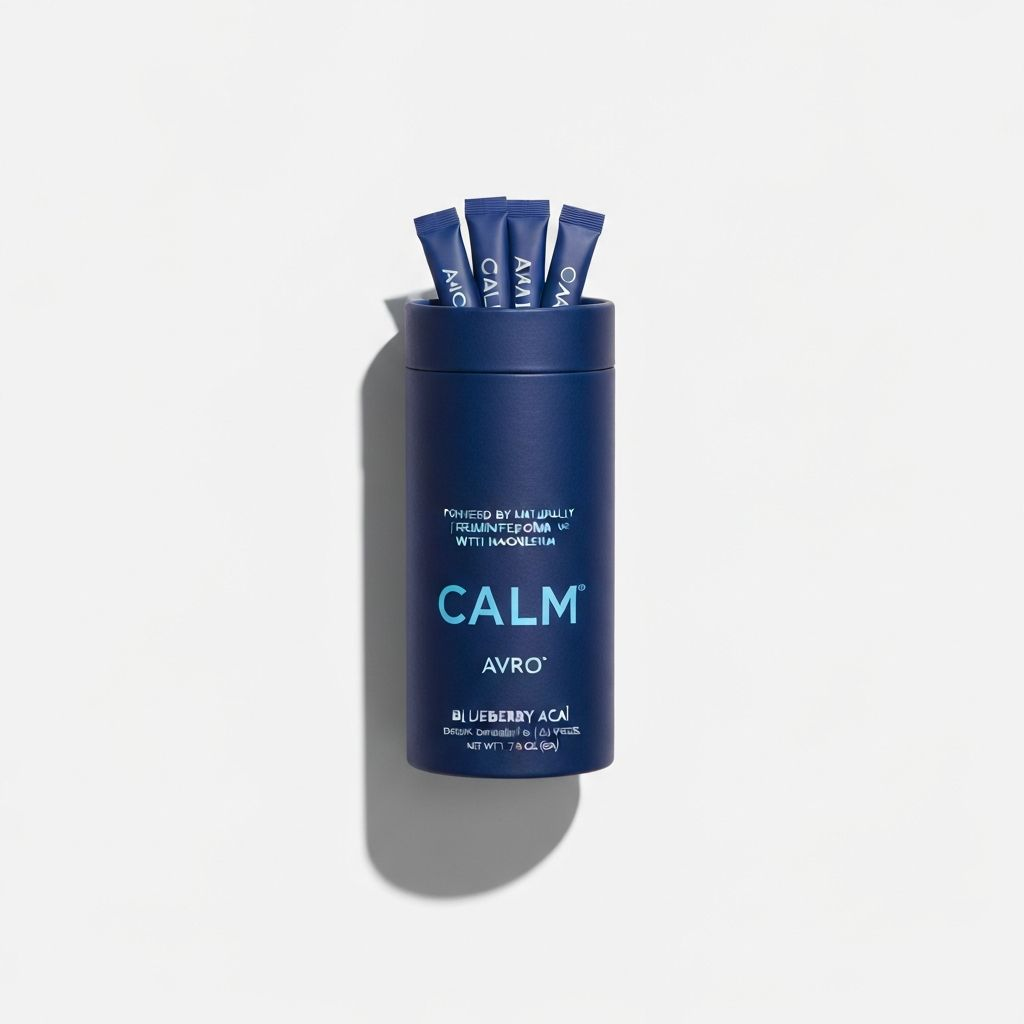
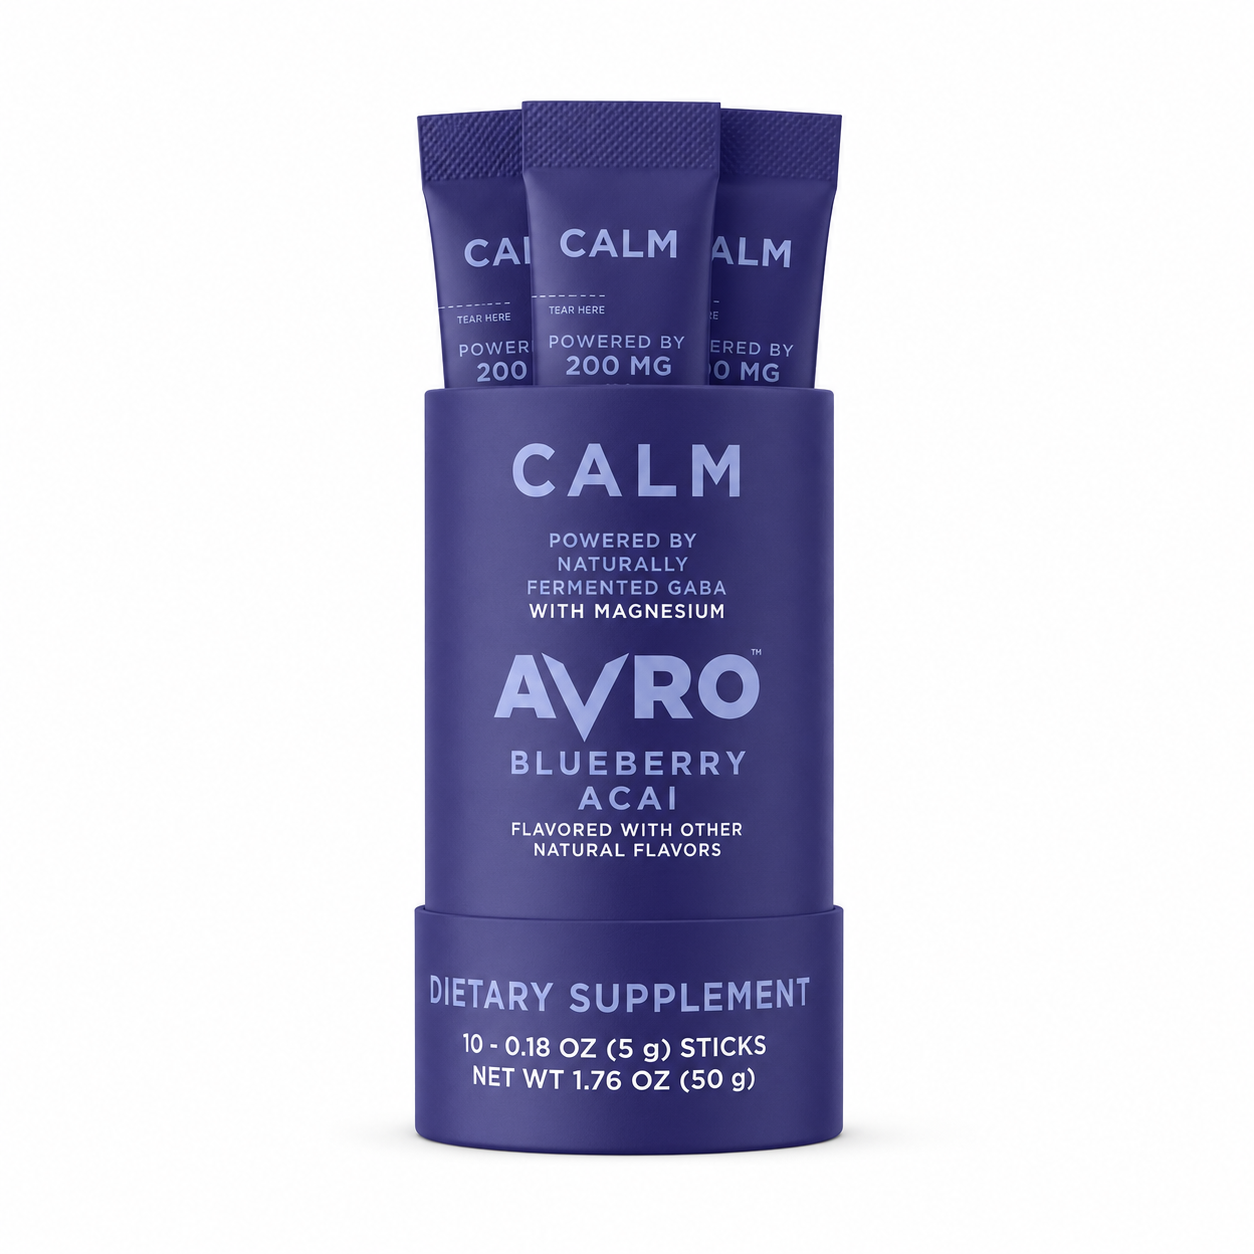
feat: use solo tube images in gallery instead of cropped studio shot\n\nAdd 'soloTubeImageFor' helper and update PDP gallery view.

Changed region(s): [[0.3125, 0.0625, 0.6875, 0.9375]]

diff --git a/components/product-gallery.tsx b/components/product-gallery.tsx
@@ -4,6 +4,7 @@ import { useState } from "react"
 import {
   tubeImageFor,
   stickImageFor,
+  soloTubeImageFor,
   TUBE_SCENE_LABELS,
   type TubeScene,
 } from "@/components/product-visual"
@@ -48,6 +49,7 @@ export function ProductGallery({ formula, formulaKey }: ProductGalleryProps) {
   const [activeId, setActiveId] = useState<ThumbKind>("studio")
 
   const studio = tubeImageFor("studio", formulaKey, flavorId)
+  const soloTube = soloTubeImageFor(formulaKey, flavorId)
   const stick = stickImageFor(formulaKey, flavorId)
   const activeFlavorName =
     formula.flavors.find((f) => f.id === flavorId)?.name ?? formula.flavor
@@ -72,15 +74,14 @@ export function ProductGallery({ formula, formulaKey }: ProductGalleryProps) {
     }
 
     if (activeId === "tube") {
-      // Solo display tube — same studio packshot, cropped to canister side.
+      // Solo display tube — the canister by itself, on white.
       return (
-        <div className="relative w-full h-full bg-white overflow-hidden">
+        <div className="relative flex items-center justify-center w-full h-full bg-white overflow-hidden">
           {/* eslint-disable-next-line @next/next/no-img-element */}
           <img
-            src={studio.src}
-            alt={`AVRO ${formula.short} ${activeFlavorName} display tube`}
-            className="absolute top-1/2 left-1/2 max-w-none h-[150%] w-auto object-contain"
-            style={{ transform: "translate(-62%, -50%)" }}
+            src={soloTube.src}
+            alt={soloTube.alt}
+            className="w-full h-full object-contain"
           />
         </div>
       )
@@ -128,10 +129,9 @@ export function ProductGallery({ formula, formulaKey }: ProductGalleryProps) {
       return (
         // eslint-disable-next-line @next/next/no-img-element
         <img
-          src={studio.src}
+          src={soloTube.src}
           alt=""
-          className="absolute top-1/2 left-1/2 max-w-none h-[150%] w-auto object-contain"
-          style={{ transform: "translate(-62%, -50%)" }}
+          className="h-full w-full object-contain"
         />
       )
     }

diff --git a/components/product-visual.tsx b/components/product-visual.tsx
@@ -80,6 +80,21 @@ export function stickImageFor(key: FormulaKey, flavorIdOrName?: string) {
   }
 }
 
+/**
+ * Solo display tube render — the canister by itself with sticks inside,
+ * on a clean white background. Used on the PDP gallery as the dedicated
+ * "Display Tube" view.
+ */
+export function soloTubeImageFor(key: FormulaKey, flavorIdOrName?: string) {
+  const formula = formulas[key]
+  const flavor = resolveFlavor(key, flavorIdOrName)
+  return {
+    src: `/images/tubes/solo/${key}-${flavorSlug(flavor.name)}.jpg`,
+    alt: `AVRO ${formula.short} ${flavor.name} display tube`,
+    flavor,
+  }
+}
+
 interface ProductVisualProps {
   keys?: FormulaKey[]
   scene?: "stone" | "hero-stone" | "bundle" | "social" | FormulaKey
